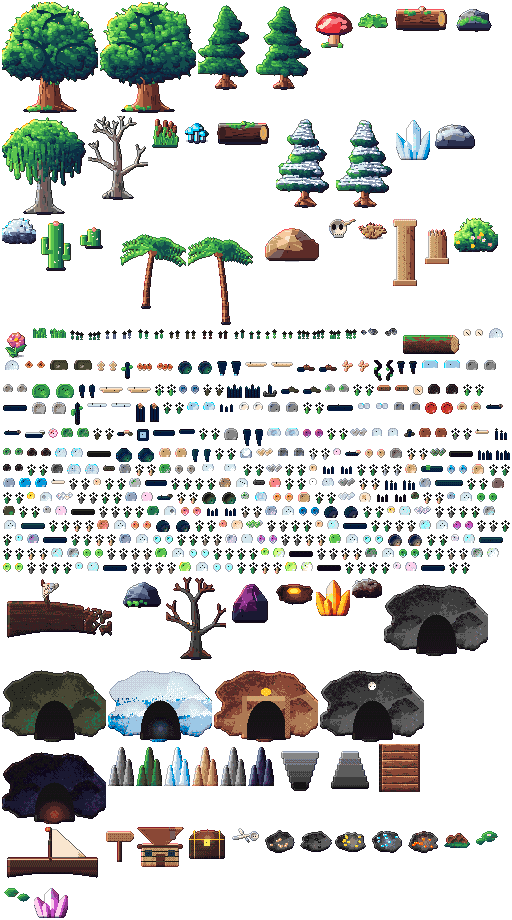
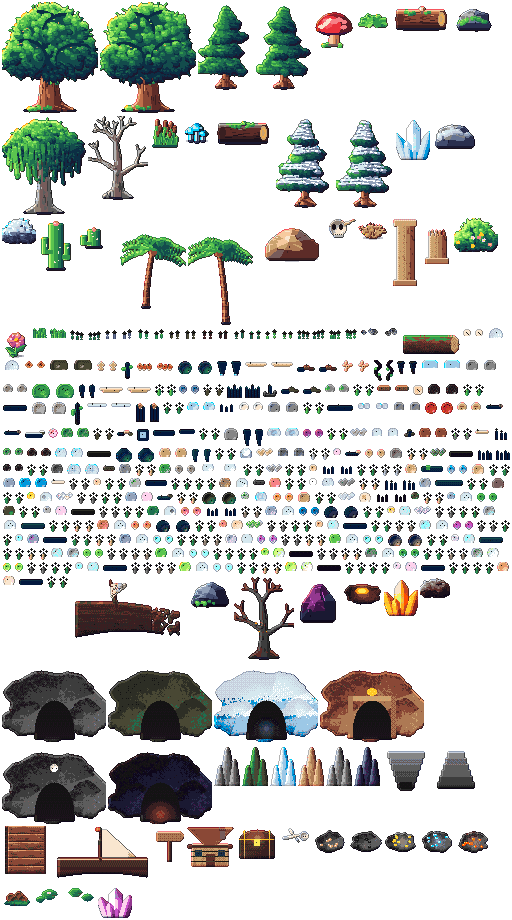
Ciclos 611-620/1000: 5 props (atlas 528) + testes mercado/spawning + evento concha cintilante + dica

Changed region(s): [[0.0, 0.6087, 0.9688, 1.0], [0.9375, 0.6087, 1.0, 0.6391]]

diff --git a/src/game/RegionWorld.js b/src/game/RegionWorld.js
@@ -33,12 +33,12 @@ const INTERACT_RANGE = 70;
 
 // Objetos por terreno: [frame, peso, sólido?]. Sólido = base que bloqueia (largura, altura).
 const PROPS = {
-  [T.FOREST]: { density: 0.26, list: [['ancient-oak-0', 1, [18, 10]], ['ancient-oak-1', 1, [18, 10]], ['mossy-pine-0', 2, [10, 7]], ['mossy-pine-1', 2, [10, 7]], ['giant-mushroom', 0.6, [10, 6]], ['fern', 3], ['fallen-log', 0.6, [40, 10]], ['mossy-rock', 1, [24, 10]], ['grass-tuft-0', 4], ['grass-tuft-1', 4], ['flower-tuft-0', 1.2], ['flower-tuft-1', 1.2], ['forest-flower-0', 0.8], ['forest-flower-1', 0.8], ['pebbles-0', 0.7], ['pebbles-1', 0.7], ['mushroom-cluster-0', 0.5], ['mushroom-cluster-1', 0.5], ['berry-bush-0', 0.6], ['berry-bush-1', 0.6], ['yellow-flower-0', 0.7], ['yellow-flower-1', 0.7], ['bark-scrap-0', 0.5], ['bark-scrap-1', 0.5], ['pink-flower-0', 0.6], ['pink-flower-1', 0.6], ['rotten-log', 0.4, [30, 9]], ['red-cap-0', 0.4], ['red-cap-1', 0.4], ['tan-shroom-0', 0.4], ['tan-shroom-1', 0.4], ['orange-shroom-0', 0.4], ['orange-shroom-1', 0.4], ['pink-shroom-0', 0.4], ['pink-shroom-1', 0.4], ['coral-shroom-0', 0.4], ['coral-shroom-1', 0.4], ['violet-shroom-0', 0.4], ['violet-shroom-1', 0.4], ['lilac-shroom-0', 0.4], ['lilac-shroom-1', 0.4], ['light-green-shroom-0', 0.4], ['light-green-shroom-1', 0.4], ['mossy-log', 0.35, [28, 8]], ['light-purple-flower-0', 0.5], ['light-purple-flower-1', 0.5], ['peach-forest-flower-0', 0.5], ['peach-forest-flower-1', 0.5], ['blue-forest-flower-0', 0.5], ['blue-forest-flower-1', 0.5], ['teal-forest-flower-0', 0.5], ['teal-forest-flower-1', 0.5], ['hot-pink-flower-0', 0.5], ['hot-pink-flower-1', 0.5], ['turquoise-forest-flower-0', 0.5], ['turquoise-forest-flower-1', 0.5], ['lilac-forest-flower-0', 0.5], ['lilac-forest-flower-1', 0.5], ['light-green-forest-flower-0', 0.5], ['light-green-forest-flower-1', 0.5], ['pale-green-forest-flower-0', 0.5], ['pale-green-forest-flower-1', 0.5], ['pale-lilac-forest-flower-0', 0.5], ['pale-lilac-forest-flower-1', 0.5], ['dark-bark', 0.5], ['blush-forest-flower-0', 0.5], ['blush-forest-flower-1', 0.5], ['forest-gravel', 0.6], ['forest-branch', 0.5], ['yellow-forest-bush-0', 0.5], ['yellow-forest-bush-1', 0.5], ['rotten-forest-log', 0.3, [30, 9]], ['forest-boulder', 0.3, [14, 8]]] },
-  [T.SWAMP]: { density: 0.17, list: [['willow', 1.4, [14, 9]], ['dead-tree', 1.4, [10, 7]], ['reeds', 3], ['swamp-shroom', 1.2], ['bog-log', 0.5, [40, 10]], ['mossy-rock', 0.5, [24, 10]], ['grass-tuft-0', 3], ['flower-tuft-1', 0.6], ['swamp-flower-0', 0.6], ['swamp-flower-1', 0.6], ['mud-puddle-0', 0.5], ['mud-puddle-1', 0.5], ['twisted-root-0', 0.5], ['twisted-root-1', 0.5], ['river-stone-0', 0.5, [10, 6]], ['river-stone-1', 0.5, [10, 6]], ['blue-mushroom-0', 0.5], ['blue-mushroom-1', 0.5], ['moss-pebble-0', 0.6], ['moss-pebble-1', 0.6], ['reed-0', 0.7], ['reed-1', 0.7], ['green-stone-0', 0.5, [10, 6]], ['green-stone-1', 0.5, [10, 6]], ['lilac-flower-0', 0.5], ['lilac-flower-1', 0.5], ['swamp-root', 0.5], ['swamp-pebble-0', 0.5], ['swamp-pebble-1', 0.5], ['yellow-swamp-flower-0', 0.5], ['yellow-swamp-flower-1', 0.5], ['swamp-gravel', 0.6], ['pink-swamp-flower-0', 0.5], ['pink-swamp-flower-1', 0.5], ['dark-river-stone', 0.5, [10, 6]], ['gray-shroom-0', 0.4], ['gray-shroom-1', 0.4], ['green-shroom-0', 0.4], ['green-shroom-1', 0.4], ['navy-shroom-0', 0.4], ['navy-shroom-1', 0.4], ['turquoise-shroom-0', 0.4], ['turquoise-shroom-1', 0.4], ['teal-swamp-shroom-0', 0.4], ['teal-swamp-shroom-1', 0.4], ['sea-green-swamp-shroom-0', 0.4], ['sea-green-swamp-shroom-1', 0.4], ['dark-sea-green-swamp-shroom-0', 0.4], ['dark-sea-green-swamp-shroom-1', 0.4], ['light-green-swamp-shroom-0', 0.4], ['light-green-swamp-shroom-1', 0.4], ['light-sea-green-swamp-shroom-0', 0.4], ['light-sea-green-swamp-shroom-1', 0.4], ['white-swamp-flower-0', 0.5], ['white-swamp-flower-1', 0.5], ['light-blue-shroom-0', 0.4], ['light-blue-shroom-1', 0.4], ['light-river-stone', 0.5, [10, 6]], ['blue-swamp-flower-0', 0.5], ['blue-swamp-flower-1', 0.5], ['orange-swamp-flower-0', 0.5], ['orange-swamp-flower-1', 0.5], ['teal-swamp-flower-0', 0.5], ['teal-swamp-flower-1', 0.5], ['gold-swamp-flower-0', 0.5], ['gold-swamp-flower-1', 0.5], ['dark-purple-swamp-flower-0', 0.5], ['dark-purple-swamp-flower-1', 0.5], ['coral-swamp-flower-0', 0.5], ['coral-swamp-flower-1', 0.5], ['turquoise-swamp-flower-0', 0.5], ['turquoise-swamp-flower-1', 0.5], ['lilac-swamp-flower-0', 0.5], ['lilac-swamp-flower-1', 0.5], ['green-swamp-flower-0', 0.5], ['green-swamp-flower-1', 0.5], ['sea-green-swamp-flower-0', 0.5], ['sea-green-swamp-flower-1', 0.5], ['light-green-swamp-flower-0', 0.5], ['light-green-swamp-flower-1', 0.5], ['pale-lilac-swamp-flower-0', 0.5], ['pale-lilac-swamp-flower-1', 0.5], ['muddy-swamp-log', 0.3, [30, 9]], ['pale-swamp-log', 0.3, [30, 9]], ['white-flowered-swamp-bush-0', 0.4], ['white-flowered-swamp-bush-1', 0.4]] },
-  [T.SNOW]: { density: 0.15, list: [['snow-pine-0', 2, [10, 7]], ['snow-pine-1', 2, [10, 7]], ['ice-crystal', 1, [16, 8]], ['snow-rock', 1.4, [28, 10]], ['frozen-bush', 1.4], ['grass-tuft-1', 1.5], ['snow-flower-0', 0.8], ['snow-flower-1', 0.8], ['pebbles-0', 0.5], ['pebbles-1', 0.5], ['frozen-log', 0.5, [40, 10]], ['snow-mound-0', 0.6], ['snow-mound-1', 0.6], ['ice-shard-0', 0.6, [6, 10]], ['ice-shard-1', 0.6, [6, 10]], ['ice-spike-0', 0.6, [4, 8]], ['ice-spike-1', 0.6, [4, 8]], ['white-flower-0', 0.6], ['white-flower-1', 0.6], ['blue-ice-0', 0.5], ['blue-ice-1', 0.5], ['snow-track-0', 0.6], ['snow-track-1', 0.6], ['snow-branch', 0.4, [24, 10]], ['carved-ice', 0.4, [10, 10]], ['snow-hollow-0', 0.5], ['snow-hollow-1', 0.5], ['snow-pile-0', 0.5], ['snow-pile-1', 0.5], ['blue-snow-flower-0', 0.5], ['blue-snow-flower-1', 0.5], ['clear-ice-rock-0', 0.5, [10, 6]], ['clear-ice-rock-1', 0.5, [10, 6]], ['snow-covered-rock', 0.4, [12, 7]], ['lilac-ice-flower-0', 0.5], ['lilac-ice-flower-1', 0.5], ['ice-log', 0.35, [30, 9]], ['cracked-ice-0', 0.5], ['cracked-ice-1', 0.5], ['wind-snow-0', 0.5], ['wind-snow-1', 0.5], ['mint-ice-flower-0', 0.5], ['mint-ice-flower-1', 0.5], ['deep-blue-ice-0', 0.5], ['deep-blue-ice-1', 0.5], ['flowered-snow', 0.5], ['pale-blue-ice', 0.5], ['gray-snow-rock', 0.5, [10, 6]], ['pebbled-snow', 0.5], ['pink-ice', 0.4, [10, 6]], ['shattered-ice', 0.5], ['snow-gravel', 0.6], ['blue-flowered-snow', 0.5], ['lilac-ice', 0.4, [10, 6]], ['dark-pebbled-snow', 0.5], ['pink-flowered-snow', 0.5], ['teal-ice', 0.4, [10, 6]], ['yellow-flowered-snow', 0.5], ['green-flowered-snow', 0.5], ['coral-ice', 0.4, [10, 6]], ['turquoise-ice', 0.4, [10, 6]], ['turquoise-flowered-snow', 0.5], ['dark-lilac-ice', 0.4, [10, 6]], ['lilac-flowered-snow', 0.5], ['pale-teal-ice', 0.4, [10, 6]], ['coral-flowered-snow', 0.5], ['green-ice', 0.4, [10, 6]], ['dark-teal-ice', 0.4, [10, 6]], ['sea-green-flowered-snow', 0.5], ['light-green-ice', 0.4, [10, 6]], ['light-green-flowered-snow', 0.5], ['pale-green-ice', 0.4, [10, 6]], ['light-sea-green-ice', 0.4, [10, 6]], ['pale-green-flowered-snow', 0.5], ['pale-green-ice-2', 0.4, [10, 6]], ['pale-lilac-ice', 0.4, [10, 6]]] },
+  [T.FOREST]: { density: 0.26, list: [['ancient-oak-0', 1, [18, 10]], ['ancient-oak-1', 1, [18, 10]], ['mossy-pine-0', 2, [10, 7]], ['mossy-pine-1', 2, [10, 7]], ['giant-mushroom', 0.6, [10, 6]], ['fern', 3], ['fallen-log', 0.6, [40, 10]], ['mossy-rock', 1, [24, 10]], ['grass-tuft-0', 4], ['grass-tuft-1', 4], ['flower-tuft-0', 1.2], ['flower-tuft-1', 1.2], ['forest-flower-0', 0.8], ['forest-flower-1', 0.8], ['pebbles-0', 0.7], ['pebbles-1', 0.7], ['mushroom-cluster-0', 0.5], ['mushroom-cluster-1', 0.5], ['berry-bush-0', 0.6], ['berry-bush-1', 0.6], ['yellow-flower-0', 0.7], ['yellow-flower-1', 0.7], ['bark-scrap-0', 0.5], ['bark-scrap-1', 0.5], ['pink-flower-0', 0.6], ['pink-flower-1', 0.6], ['rotten-log', 0.4, [30, 9]], ['red-cap-0', 0.4], ['red-cap-1', 0.4], ['tan-shroom-0', 0.4], ['tan-shroom-1', 0.4], ['orange-shroom-0', 0.4], ['orange-shroom-1', 0.4], ['pink-shroom-0', 0.4], ['pink-shroom-1', 0.4], ['coral-shroom-0', 0.4], ['coral-shroom-1', 0.4], ['violet-shroom-0', 0.4], ['violet-shroom-1', 0.4], ['lilac-shroom-0', 0.4], ['lilac-shroom-1', 0.4], ['light-green-shroom-0', 0.4], ['light-green-shroom-1', 0.4], ['mossy-log', 0.35, [28, 8]], ['light-purple-flower-0', 0.5], ['light-purple-flower-1', 0.5], ['peach-forest-flower-0', 0.5], ['peach-forest-flower-1', 0.5], ['blue-forest-flower-0', 0.5], ['blue-forest-flower-1', 0.5], ['teal-forest-flower-0', 0.5], ['teal-forest-flower-1', 0.5], ['hot-pink-flower-0', 0.5], ['hot-pink-flower-1', 0.5], ['turquoise-forest-flower-0', 0.5], ['turquoise-forest-flower-1', 0.5], ['lilac-forest-flower-0', 0.5], ['lilac-forest-flower-1', 0.5], ['light-green-forest-flower-0', 0.5], ['light-green-forest-flower-1', 0.5], ['pale-green-forest-flower-0', 0.5], ['pale-green-forest-flower-1', 0.5], ['pale-lilac-forest-flower-0', 0.5], ['pale-lilac-forest-flower-1', 0.5], ['pale-coral-forest-flower-0', 0.5], ['pale-coral-forest-flower-1', 0.5], ['dark-bark', 0.5], ['blush-forest-flower-0', 0.5], ['blush-forest-flower-1', 0.5], ['forest-gravel', 0.6], ['forest-branch', 0.5], ['yellow-forest-bush-0', 0.5], ['yellow-forest-bush-1', 0.5], ['rotten-forest-log', 0.3, [30, 9]], ['forest-boulder', 0.3, [14, 8]]] },
+  [T.SWAMP]: { density: 0.17, list: [['willow', 1.4, [14, 9]], ['dead-tree', 1.4, [10, 7]], ['reeds', 3], ['swamp-shroom', 1.2], ['bog-log', 0.5, [40, 10]], ['mossy-rock', 0.5, [24, 10]], ['grass-tuft-0', 3], ['flower-tuft-1', 0.6], ['swamp-flower-0', 0.6], ['swamp-flower-1', 0.6], ['mud-puddle-0', 0.5], ['mud-puddle-1', 0.5], ['twisted-root-0', 0.5], ['twisted-root-1', 0.5], ['river-stone-0', 0.5, [10, 6]], ['river-stone-1', 0.5, [10, 6]], ['blue-mushroom-0', 0.5], ['blue-mushroom-1', 0.5], ['moss-pebble-0', 0.6], ['moss-pebble-1', 0.6], ['reed-0', 0.7], ['reed-1', 0.7], ['green-stone-0', 0.5, [10, 6]], ['green-stone-1', 0.5, [10, 6]], ['lilac-flower-0', 0.5], ['lilac-flower-1', 0.5], ['swamp-root', 0.5], ['swamp-pebble-0', 0.5], ['swamp-pebble-1', 0.5], ['yellow-swamp-flower-0', 0.5], ['yellow-swamp-flower-1', 0.5], ['swamp-gravel', 0.6], ['pink-swamp-flower-0', 0.5], ['pink-swamp-flower-1', 0.5], ['dark-river-stone', 0.5, [10, 6]], ['gray-shroom-0', 0.4], ['gray-shroom-1', 0.4], ['green-shroom-0', 0.4], ['green-shroom-1', 0.4], ['navy-shroom-0', 0.4], ['navy-shroom-1', 0.4], ['turquoise-shroom-0', 0.4], ['turquoise-shroom-1', 0.4], ['teal-swamp-shroom-0', 0.4], ['teal-swamp-shroom-1', 0.4], ['sea-green-swamp-shroom-0', 0.4], ['sea-green-swamp-shroom-1', 0.4], ['dark-sea-green-swamp-shroom-0', 0.4], ['dark-sea-green-swamp-shroom-1', 0.4], ['light-green-swamp-shroom-0', 0.4], ['light-green-swamp-shroom-1', 0.4], ['light-sea-green-swamp-shroom-0', 0.4], ['light-sea-green-swamp-shroom-1', 0.4], ['white-swamp-flower-0', 0.5], ['white-swamp-flower-1', 0.5], ['light-blue-shroom-0', 0.4], ['light-blue-shroom-1', 0.4], ['light-river-stone', 0.5, [10, 6]], ['blue-swamp-flower-0', 0.5], ['blue-swamp-flower-1', 0.5], ['orange-swamp-flower-0', 0.5], ['orange-swamp-flower-1', 0.5], ['teal-swamp-flower-0', 0.5], ['teal-swamp-flower-1', 0.5], ['gold-swamp-flower-0', 0.5], ['gold-swamp-flower-1', 0.5], ['dark-purple-swamp-flower-0', 0.5], ['dark-purple-swamp-flower-1', 0.5], ['coral-swamp-flower-0', 0.5], ['coral-swamp-flower-1', 0.5], ['turquoise-swamp-flower-0', 0.5], ['turquoise-swamp-flower-1', 0.5], ['lilac-swamp-flower-0', 0.5], ['lilac-swamp-flower-1', 0.5], ['green-swamp-flower-0', 0.5], ['green-swamp-flower-1', 0.5], ['sea-green-swamp-flower-0', 0.5], ['sea-green-swamp-flower-1', 0.5], ['light-green-swamp-flower-0', 0.5], ['light-green-swamp-flower-1', 0.5], ['pale-lilac-swamp-flower-0', 0.5], ['pale-lilac-swamp-flower-1', 0.5], ['pale-coral-swamp-flower-0', 0.5], ['pale-coral-swamp-flower-1', 0.5], ['muddy-swamp-log', 0.3, [30, 9]], ['pale-swamp-log', 0.3, [30, 9]], ['white-flowered-swamp-bush-0', 0.4], ['white-flowered-swamp-bush-1', 0.4]] },
+  [T.SNOW]: { density: 0.15, list: [['snow-pine-0', 2, [10, 7]], ['snow-pine-1', 2, [10, 7]], ['ice-crystal', 1, [16, 8]], ['snow-rock', 1.4, [28, 10]], ['frozen-bush', 1.4], ['grass-tuft-1', 1.5], ['snow-flower-0', 0.8], ['snow-flower-1', 0.8], ['pebbles-0', 0.5], ['pebbles-1', 0.5], ['frozen-log', 0.5, [40, 10]], ['snow-mound-0', 0.6], ['snow-mound-1', 0.6], ['ice-shard-0', 0.6, [6, 10]], ['ice-shard-1', 0.6, [6, 10]], ['ice-spike-0', 0.6, [4, 8]], ['ice-spike-1', 0.6, [4, 8]], ['white-flower-0', 0.6], ['white-flower-1', 0.6], ['blue-ice-0', 0.5], ['blue-ice-1', 0.5], ['snow-track-0', 0.6], ['snow-track-1', 0.6], ['snow-branch', 0.4, [24, 10]], ['carved-ice', 0.4, [10, 10]], ['snow-hollow-0', 0.5], ['snow-hollow-1', 0.5], ['snow-pile-0', 0.5], ['snow-pile-1', 0.5], ['blue-snow-flower-0', 0.5], ['blue-snow-flower-1', 0.5], ['clear-ice-rock-0', 0.5, [10, 6]], ['clear-ice-rock-1', 0.5, [10, 6]], ['snow-covered-rock', 0.4, [12, 7]], ['lilac-ice-flower-0', 0.5], ['lilac-ice-flower-1', 0.5], ['ice-log', 0.35, [30, 9]], ['cracked-ice-0', 0.5], ['cracked-ice-1', 0.5], ['wind-snow-0', 0.5], ['wind-snow-1', 0.5], ['mint-ice-flower-0', 0.5], ['mint-ice-flower-1', 0.5], ['deep-blue-ice-0', 0.5], ['deep-blue-ice-1', 0.5], ['flowered-snow', 0.5], ['pale-blue-ice', 0.5], ['gray-snow-rock', 0.5, [10, 6]], ['pebbled-snow', 0.5], ['pink-ice', 0.4, [10, 6]], ['shattered-ice', 0.5], ['snow-gravel', 0.6], ['blue-flowered-snow', 0.5], ['lilac-ice', 0.4, [10, 6]], ['dark-pebbled-snow', 0.5], ['pink-flowered-snow', 0.5], ['teal-ice', 0.4, [10, 6]], ['yellow-flowered-snow', 0.5], ['green-flowered-snow', 0.5], ['coral-ice', 0.4, [10, 6]], ['turquoise-ice', 0.4, [10, 6]], ['turquoise-flowered-snow', 0.5], ['dark-lilac-ice', 0.4, [10, 6]], ['lilac-flowered-snow', 0.5], ['pale-teal-ice', 0.4, [10, 6]], ['coral-flowered-snow', 0.5], ['green-ice', 0.4, [10, 6]], ['dark-teal-ice', 0.4, [10, 6]], ['sea-green-flowered-snow', 0.5], ['light-green-ice', 0.4, [10, 6]], ['light-green-flowered-snow', 0.5], ['pale-green-ice', 0.4, [10, 6]], ['light-sea-green-ice', 0.4, [10, 6]], ['pale-green-flowered-snow', 0.5], ['pale-green-ice-2', 0.4, [10, 6]], ['pale-lilac-ice', 0.4, [10, 6]], ['pale-coral-ice', 0.4, [10, 6]]] },
   [T.SAND]: { density: 0.07, list: [['cactus', 2, [12, 7]], ['cactus-small', 2, [10, 6]], ['desert-rock', 1, [40, 12]], ['skull', 0.7], ['dry-bush', 2], ['ruin-pillar', 0.3, [18, 8]], ['ruin-pillar-broken', 0.4, [18, 8]], ['grass-tuft-0', 1.5], ['dune-flower-0', 0.7], ['dune-flower-1', 0.7], ['pebbles-0', 0.6], ['pebbles-1', 0.6], ['blooming-cactus', 0.4, [12, 7]], ['tall-cactus', 0.35, [10, 12]], ['footprint-0', 0.4], ['footprint-1', 0.4], ['desert-bloom-0', 0.5], ['desert-bloom-1', 0.5], ['carved-pebble-0', 0.5], ['carved-pebble-1', 0.5], ['dry-log', 0.4, [28, 8]], ['white-desert-flower-0', 0.5], ['white-desert-flower-1', 0.5], ['desert-stone-0', 0.5, [10, 6]], ['desert-stone-1', 0.5, [10, 6]], ['pink-dune-flower-0', 0.5], ['pink-dune-flower-1', 0.5], ['lilac-dune-flower-0', 0.5], ['lilac-dune-flower-1', 0.5], ['red-dune-flower-0', 0.5], ['red-dune-flower-1', 0.5], ['white-dune-flower-0', 0.5], ['white-dune-flower-1', 0.5], ['magenta-dune-flower-0', 0.5], ['magenta-dune-flower-1', 0.5], ['coral-dune-flower-0', 0.5], ['coral-dune-flower-1', 0.5], ['turquoise-dune-flower-0', 0.5], ['turquoise-dune-flower-1', 0.5], ['light-coral-dune-flower-0', 0.5], ['light-coral-dune-flower-1', 0.5], ['sea-green-dune-flower-0', 0.5], ['sea-green-dune-flower-1', 0.5], ['light-green-dune-flower-0', 0.5], ['light-green-dune-flower-1', 0.5], ['green-dune-stone', 0.5, [10, 6]], ['sea-green-dune-stone', 0.5, [10, 6]], ['light-green-dune-stone', 0.5, [10, 6]], ['pale-green-dune-flower-0', 0.5], ['pale-green-dune-flower-1', 0.5], ['lilac-dune-stone', 0.5, [10, 6]], ['flowered-dune-bush-0', 0.4], ['flowered-dune-bush-1', 0.4]] },
-  [T.DUNE]: { density: 0.03, list: [['dry-bush', 1], ['skull', 0.4], ['cactus-small', 0.5, [10, 6]], ['grass-tuft-1', 1], ['dune-flower-0', 0.5], ['dune-flower-1', 0.5], ['footprint-0', 0.5], ['footprint-1', 0.5], ['small-rock-0', 0.5], ['small-rock-1', 0.5], ['dune-wave-0', 0.6], ['dune-wave-1', 0.6], ['tall-grass-0', 0.6], ['tall-grass-1', 0.6], ['dry-bush-2', 0.7], ['dune-root', 0.5], ['dune-bloom', 0.5], ['dune-gravel', 0.6], ['dry-branch', 0.5], ['light-dune-pebble', 0.6], ['round-dune-rock', 0.4, [12, 7]], ['pink-dune-pebble', 0.6], ['dark-dune-stone', 0.5, [10, 6]], ['gold-dune-pebble', 0.6], ['dark-round-dune-rock', 0.4, [12, 7]], ['gray-dune-pebble', 0.6], ['dry-dune-bush-0', 0.5], ['dry-dune-bush-1', 0.5], ['lavender-dune-stone', 0.5, [10, 6]], ['lilac-dune-gravel', 0.6], ['coral-dune-pebble', 0.6], ['turquoise-dune-stone', 0.5, [10, 6]], ['lilac-dune-log', 0.3, [30, 9]], ['pale-dune-log', 0.3, [30, 9]]] },
-  [T.BEACH]: { density: 0.06, list: [['palm-0', 1.5, [8, 6]], ['palm-1', 1.5, [8, 6]], ['sea-rock', 1, [28, 10]], ['big-flower', 0.3], ['flower-tuft-0', 1.5], ['grass-tuft-0', 2], ['beach-flower-0', 0.7], ['beach-flower-1', 0.7], ['shell-0', 0.6], ['shell-1', 0.6], ['sand-ripple-0', 0.8], ['sand-ripple-1', 0.8], ['starfish-0', 0.4], ['starfish-1', 0.4], ['tide-puddle-0', 0.4], ['tide-puddle-1', 0.4], ['broken-anchor', 0.25, [12, 10]], ['spiral-shell', 0.4], ['beach-boulder-0', 0.3, [14, 8]], ['beach-boulder-1', 0.3, [14, 8]], ['sea-foam-0', 0.5], ['sea-foam-1', 0.5], ['pale-stone-0', 0.5], ['pale-stone-1', 0.5], ['tide-rock-0', 0.5, [10, 6]], ['tide-rock-1', 0.5, [10, 6]], ['pink-shell', 0.4], ['driftwood', 0.4], ['beach-gravel', 0.6], ['pale-bark', 0.4], ['wreck-log', 0.3, [30, 9]], ['wet-stone-0', 0.5, [10, 6]], ['wet-stone-1', 0.5, [10, 6]], ['pink-pebble', 0.5], ['sea-grass-0', 0.6], ['sea-grass-1', 0.6], ['shipwreck', 0.2, [30, 12]], ['blue-gray-stone', 0.5, [10, 6]], ['green-beach-stone', 0.5, [10, 6]], ['dry-sea-bush-0', 0.5], ['dry-sea-bush-1', 0.5], ['yellow-beach-stone', 0.5, [10, 6]], ['light-beach-bark', 0.4], ['pale-green-stone', 0.5, [10, 6]], ['rose-beach-stone', 0.5, [10, 6]], ['white-beach-pebble', 0.6], ['pink-sea-bush-0', 0.5], ['pink-sea-bush-1', 0.5], ['long-beach-log', 0.25, [34, 8]], ['colorful-beach-gravel', 0.6], ['lilac-beach-stone', 0.5, [10, 6]], ['green-beach-pebble', 0.6], ['big-shell', 0.35, [10, 8]], ['blue-beach-pebble', 0.6], ['dark-beach-log', 0.25, [30, 9]], ['dark-green-beach-stone', 0.5, [10, 6]], ['coral-beach-flower-0', 0.5], ['coral-beach-flower-1', 0.5], ['gold-beach-pebble', 0.6], ['teal-beach-stone', 0.5, [10, 6]], ['coral-beach-stone', 0.5, [10, 6]], ['coral-beach-pebble', 0.6], ['green-beach-gravel', 0.6], ['turquoise-beach-pebble', 0.6], ['dark-lilac-beach-stone', 0.5, [10, 6]], ['light-lilac-beach-pebble', 0.6], ['light-green-beach-pebble', 0.6], ['muddy-beach-log', 0.25, [30, 9]], ['lilac-beach-flower-0', 0.5], ['lilac-beach-flower-1', 0.5], ['green-beach-flower-0', 0.5], ['green-beach-flower-1', 0.5], ['light-green-beach-stone', 0.5, [10, 6]], ['sea-green-beach-stone', 0.5, [10, 6]], ['sea-green-beach-flower-0', 0.5], ['sea-green-beach-flower-1', 0.5], ['dark-sea-green-beach-stone', 0.5, [10, 6]], ['light-green-beach-flower-0', 0.5], ['light-green-beach-flower-1', 0.5], ['pale-green-beach-flower-0', 0.5], ['pale-green-beach-flower-1', 0.5], ['pale-green-beach-stone', 0.5, [10, 6]], ['pale-lilac-beach-pebble', 0.6], ['light-sea-green-beach-pebble', 0.6]] },
+  [T.DUNE]: { density: 0.03, list: [['dry-bush', 1], ['skull', 0.4], ['cactus-small', 0.5, [10, 6]], ['grass-tuft-1', 1], ['dune-flower-0', 0.5], ['dune-flower-1', 0.5], ['footprint-0', 0.5], ['footprint-1', 0.5], ['small-rock-0', 0.5], ['small-rock-1', 0.5], ['dune-wave-0', 0.6], ['dune-wave-1', 0.6], ['tall-grass-0', 0.6], ['tall-grass-1', 0.6], ['dry-bush-2', 0.7], ['dune-root', 0.5], ['dune-bloom', 0.5], ['dune-gravel', 0.6], ['dry-branch', 0.5], ['light-dune-pebble', 0.6], ['round-dune-rock', 0.4, [12, 7]], ['pink-dune-pebble', 0.6], ['dark-dune-stone', 0.5, [10, 6]], ['gold-dune-pebble', 0.6], ['dark-round-dune-rock', 0.4, [12, 7]], ['gray-dune-pebble', 0.6], ['dry-dune-bush-0', 0.5], ['dry-dune-bush-1', 0.5], ['lavender-dune-stone', 0.5, [10, 6]], ['lilac-dune-gravel', 0.6], ['coral-dune-pebble', 0.6], ['turquoise-dune-stone', 0.5, [10, 6]], ['lilac-dune-log', 0.3, [30, 9]], ['coral-dune-log', 0.3, [30, 9]], ['pale-dune-log', 0.3, [30, 9]]] },
+  [T.BEACH]: { density: 0.06, list: [['palm-0', 1.5, [8, 6]], ['palm-1', 1.5, [8, 6]], ['sea-rock', 1, [28, 10]], ['big-flower', 0.3], ['flower-tuft-0', 1.5], ['grass-tuft-0', 2], ['beach-flower-0', 0.7], ['beach-flower-1', 0.7], ['shell-0', 0.6], ['shell-1', 0.6], ['sand-ripple-0', 0.8], ['sand-ripple-1', 0.8], ['starfish-0', 0.4], ['starfish-1', 0.4], ['tide-puddle-0', 0.4], ['tide-puddle-1', 0.4], ['broken-anchor', 0.25, [12, 10]], ['spiral-shell', 0.4], ['beach-boulder-0', 0.3, [14, 8]], ['beach-boulder-1', 0.3, [14, 8]], ['sea-foam-0', 0.5], ['sea-foam-1', 0.5], ['pale-stone-0', 0.5], ['pale-stone-1', 0.5], ['tide-rock-0', 0.5, [10, 6]], ['tide-rock-1', 0.5, [10, 6]], ['pink-shell', 0.4], ['driftwood', 0.4], ['beach-gravel', 0.6], ['pale-bark', 0.4], ['wreck-log', 0.3, [30, 9]], ['wet-stone-0', 0.5, [10, 6]], ['wet-stone-1', 0.5, [10, 6]], ['pink-pebble', 0.5], ['sea-grass-0', 0.6], ['sea-grass-1', 0.6], ['shipwreck', 0.2, [30, 12]], ['blue-gray-stone', 0.5, [10, 6]], ['green-beach-stone', 0.5, [10, 6]], ['dry-sea-bush-0', 0.5], ['dry-sea-bush-1', 0.5], ['yellow-beach-stone', 0.5, [10, 6]], ['light-beach-bark', 0.4], ['pale-green-stone', 0.5, [10, 6]], ['rose-beach-stone', 0.5, [10, 6]], ['white-beach-pebble', 0.6], ['pink-sea-bush-0', 0.5], ['pink-sea-bush-1', 0.5], ['long-beach-log', 0.25, [34, 8]], ['colorful-beach-gravel', 0.6], ['lilac-beach-stone', 0.5, [10, 6]], ['green-beach-pebble', 0.6], ['big-shell', 0.35, [10, 8]], ['blue-beach-pebble', 0.6], ['dark-beach-log', 0.25, [30, 9]], ['dark-green-beach-stone', 0.5, [10, 6]], ['coral-beach-flower-0', 0.5], ['coral-beach-flower-1', 0.5], ['gold-beach-pebble', 0.6], ['teal-beach-stone', 0.5, [10, 6]], ['coral-beach-stone', 0.5, [10, 6]], ['coral-beach-pebble', 0.6], ['green-beach-gravel', 0.6], ['turquoise-beach-pebble', 0.6], ['dark-lilac-beach-stone', 0.5, [10, 6]], ['light-lilac-beach-pebble', 0.6], ['light-green-beach-pebble', 0.6], ['muddy-beach-log', 0.25, [30, 9]], ['lilac-beach-flower-0', 0.5], ['lilac-beach-flower-1', 0.5], ['green-beach-flower-0', 0.5], ['green-beach-flower-1', 0.5], ['light-green-beach-stone', 0.5, [10, 6]], ['sea-green-beach-stone', 0.5, [10, 6]], ['sea-green-beach-flower-0', 0.5], ['sea-green-beach-flower-1', 0.5], ['dark-sea-green-beach-stone', 0.5, [10, 6]], ['light-green-beach-flower-0', 0.5], ['light-green-beach-flower-1', 0.5], ['pale-green-beach-flower-0', 0.5], ['pale-green-beach-flower-1', 0.5], ['pale-green-beach-stone', 0.5, [10, 6]], ['pale-lilac-beach-pebble', 0.6], ['pale-coral-beach-stone', 0.5, [10, 6]], ['light-sea-green-beach-pebble', 0.6]] },
   [T.JUNGLE]: { density: 0.17, list: [['palm-0', 1.5, [8, 6]], ['palm-1', 1.5, [8, 6]], ['tropical-bush', 3], ['big-flower', 2], ['sea-rock', 0.4, [28, 10]], ['grass-tuft-0', 3], ['grass-tuft-1', 3], ['flower-tuft-1', 2], ['jungle-flower-0', 0.8], ['jungle-flower-1', 0.8], ['vine-0', 0.7], ['vine-1', 0.7], ['jungle-root-0', 0.5], ['jungle-root-1', 0.5], ['purple-flower-0', 0.6], ['purple-flower-1', 0.6], ['jungle-log', 0.4, [32, 9]], ['purple-shroom-0', 0.4], ['purple-shroom-1', 0.4], ['jungle-bush-0', 0.6], ['jungle-bush-1', 0.6], ['orange-jungle-flower-0', 0.5], ['orange-jungle-flower-1', 0.5], ['yellow-jungle-flower-0', 0.5], ['yellow-jungle-flower-1', 0.5], ['pink-jungle-flower-0', 0.5], ['pink-jungle-flower-1', 0.5], ['coral-jungle-flower-0', 0.5], ['coral-jungle-flower-1', 0.5], ['gold-jungle-flower-0', 0.5], ['gold-jungle-flower-1', 0.5], ['turquoise-jungle-flower-0', 0.5], ['turquoise-jungle-flower-1', 0.5], ['mossy-jungle-log', 0.3, [30, 9]], ['sea-green-jungle-flower-0', 0.5], ['sea-green-jungle-flower-1', 0.5], ['light-green-jungle-flower-0', 0.5], ['light-green-jungle-flower-1', 0.5], ['pale-green-jungle-flower-0', 0.5], ['pale-green-jungle-flower-1', 0.5], ['dark-jungle-pebble', 0.6], ['mossy-jungle-stone', 0.5, [10, 6]]] },
   [T.ASH]: { density: 0.11, list: [['charred-tree', 2, [10, 7]], ['obsidian', 2, [28, 12]], ['lava-vent', 1], ['fire-crystal', 0.8, [14, 8]], ['ash-bush', 2], ['grass-tuft-1', 0.8], ['ash-flower-0', 0.5], ['ash-flower-1', 0.5], ['pebbles-0', 0.5], ['pebbles-1', 0.5], ['ember-0', 0.8], ['ember-1', 0.8], ['obsidian-shard-0', 0.5, [5, 8]], ['obsidian-shard-1', 0.5, [5, 8]], ['ember-flower-0', 0.5], ['ember-flower-1', 0.5], ['lava-rock-0', 0.5, [12, 6]], ['lava-rock-1', 0.5, [12, 6]], ['granite-0', 0.5, [12, 6]], ['granite-1', 0.5, [12, 6]], ['orange-flower-0', 0.5], ['orange-flower-1', 0.5], ['ash-spike-0', 0.5, [5, 10]], ['ash-spike-1', 0.5, [5, 10]], ['red-stone-0', 0.5, [10, 6]], ['red-stone-1', 0.5, [10, 6]], ['hot-ash-0', 0.6], ['hot-ash-1', 0.6], ['ash-crystal-0', 0.4, [5, 8]], ['ash-crystal-1', 0.4, [5, 8]], ['pale-ash-rock', 0.4, [12, 7]], ['small-lava-rock-0', 0.5], ['small-lava-rock-1', 0.5], ['light-ash-gravel', 0.6], ['white-ash-flower-0', 0.5], ['white-ash-flower-1', 0.5], ['ash-log', 0.35, [28, 8]], ['ash-bark', 0.5], ['red-ash-rock', 0.4, [12, 7]], ['orange-ash-flower-0', 0.5], ['orange-ash-flower-1', 0.5], ['dry-ash-bush-0', 0.5], ['dry-ash-bush-1', 0.5], ['pink-ash-flower-0', 0.5], ['pink-ash-flower-1', 0.5], ['flowered-ash-bush-0', 0.4], ['flowered-ash-bush-1', 0.4], ['pale-ash-log', 0.3, [30, 9]], ['yellow-ash-flower-0', 0.5], ['yellow-ash-flower-1', 0.5], ['teal-ash-flower-0', 0.5], ['teal-ash-flower-1', 0.5], ['coral-ash-flower-0', 0.5], ['coral-ash-flower-1', 0.5], ['green-ash-flower-0', 0.5], ['green-ash-flower-1', 0.5], ['sea-green-ash-flower-0', 0.5], ['sea-green-ash-flower-1', 0.5], ['light-green-ash-flower-0', 0.5], ['light-green-ash-flower-1', 0.5], ['light-sea-green-ash-flower-0', 0.5], ['light-sea-green-ash-flower-1', 0.5], ['pale-green-ash-flower-0', 0.5], ['pale-green-ash-flower-1', 0.5]] },
 };

diff --git a/src/art/biomeProps.js b/src/art/biomeProps.js
@@ -1166,6 +1166,49 @@ function paleLilacForestFlower(seed = 2397) {
   return finish(p, { outline: 0.3 });
 }
 
+/** Flor coral clara do brejo. */
+function paleCoralSwampFlower(seed = 2407) {
+  const p = new Painter(10, 12, { transparent: true });
+  p.rect(4, 6, 2, 5, '#4a6a34');
+  for (const [dx, dy] of [[-3, -2], [3, -2], [-2, 2], [2, 2], [0, -4]]) p.set(5 + dx, 5 + dy, '#ffb8a8');
+  p.set(5, 5, '#fff4f0');
+  return finish(p, { outline: 0.3 });
+}
+
+/** Pedra coral clara de praia. */
+function paleCoralBeachStone(seed = 2411) {
+  const p = new Painter(14, 9, { transparent: true });
+  p.sphere(7, 5, 5, '#d89880', '#f0bcac');
+  p.set(5, 3, '#ffe4dc');
+  return finish(p, { outline: 0.35 });
+}
+
+/** Gelo coral claro (neve). */
+function paleCoralIce(seed = 2417) {
+  const p = new Painter(14, 9, { transparent: true });
+  p.sphere(7, 5, 5, '#f0ccc0', '#f8e6de');
+  p.set(5, 3, '#fff4ee');
+  return finish(p, { outline: 0.35 });
+}
+
+/** Tronco coral de duna. */
+function coralDuneLog(seed = 2421) {
+  const p = new Painter(26, 10, { transparent: true });
+  const wood = ['#c09878', '#d8b494'];
+  p.rect(2, 4, 22, 4, shade([wood[0], wood[1]], 0.5));
+  p.set(2, 4, '#a07858'); p.set(23, 7, '#a07858');
+  return finish(p, { outline: 0.35 });
+}
+
+/** Flor coral clara da floresta. */
+function paleCoralForestFlower(seed = 2427) {
+  const p = new Painter(10, 12, { transparent: true });
+  p.rect(4, 6, 2, 5, '#4a6a34');
+  for (const [dx, dy] of [[-3, -2], [3, -2], [-2, 2], [2, 2], [0, -4]]) p.set(5 + dx, 5 + dy, '#ffb8a8');
+  p.set(5, 5, '#fff4f0');
+  return finish(p, { outline: 0.3 });
+}
+
 function seaGreenSwampFlower(seed = 2197) {
   const p = new Painter(10, 12, { transparent: true });
   p.rect(4, 6, 2, 5, '#4a6a34');
@@ -3967,6 +4010,13 @@ const PAINTED_ENTRIES = [
   { name: 'lilac-dune-log', draw: () => lilacDuneLog(2391) },
   { name: 'pale-lilac-forest-flower-0', draw: () => paleLilacForestFlower(2397) },
   { name: 'pale-lilac-forest-flower-1', draw: () => paleLilacForestFlower(2399) },
+  { name: 'pale-coral-swamp-flower-0', draw: () => paleCoralSwampFlower(2407) },
+  { name: 'pale-coral-swamp-flower-1', draw: () => paleCoralSwampFlower(2409) },
+  { name: 'pale-coral-beach-stone', draw: () => paleCoralBeachStone(2411) },
+  { name: 'pale-coral-ice', draw: () => paleCoralIce(2417) },
+  { name: 'coral-dune-log', draw: () => coralDuneLog(2421) },
+  { name: 'pale-coral-forest-flower-0', draw: () => paleCoralForestFlower(2427) },
+  { name: 'pale-coral-forest-flower-1', draw: () => paleCoralForestFlower(2429) },
   { name: 'shipwreck', draw: shipwreck },
   { name: 'sea-rock', draw: seaRock },
   { name: 'charred-tree', draw: () => deadTree(['#0c0808', '#1a1010', '#2a1a16', '#3a2620', '#4a3228'], true) },

diff --git a/tests/simulacao.test.js b/tests/simulacao.test.js
@@ -28,6 +28,8 @@ import { MISSIONS } from '../src/data/campaign.js';
 import { CRAFT_RECIPES } from '../src/data/craftRecipes.js';
 import { RESOURCE_NODES } from '../src/data/resources.js';
 import { SPAWN_ZONES } from '../src/data/biomes.js';
+import { MARKET_CATALOG } from '../src/data/economy.js';
+import { SPAWNING_CONFIG } from '../src/data/spawning.js';
 // Validamos uso cruzado do atlas com regex em TODOS os fontes de src/ (RegionWorld importa Phaser).
 import { readFileSync, readdirSync, statSync } from 'node:fs';
 import { fileURLToPath } from 'node:url';
@@ -1831,6 +1833,30 @@ test('simulação: SPAWN_ZONES — zonas têm bioma válido e raio positivo', ()
     assert.ok(typeof zone === 'object', `zona ${name} inválida`);
     if (zone.radius !== undefined) assert.ok(zone.radius > 0, `zona ${name} raio inválido`);
   }
+});
+
+test('simulação: MARKET_CATALOG — entradas têm id, preço positivo e recurso válido', () => {
+  assert.ok(MARKET_CATALOG.length >= 5, 'poucas entradas de mercado');
+  const ids = new Set();
+  for (const entry of MARKET_CATALOG) {
+    assert.ok(entry.id && !ids.has(entry.id), `entrada sem id ou duplicada: ${entry.id}`);
+    ids.add(entry.id);
+    assert.ok((entry.price ?? 0) > 0, `entrada ${entry.id} preço inválido`);
+    const res = entry.sells ?? entry.resource ?? entry.type;
+    if (res) assert.ok(RESOURCE_TYPES[res] || CONSUMABLES[res], `entrada ${entry.id} recurso inválido: ${res}`);
+  }
+});
+
+test('simulação: SPAWNING_CONFIG — limites dia/noite e anéis de distância sadios', () => {
+  const c = SPAWNING_CONFIG;
+  assert.ok(c.activeLimit.night > c.activeLimit.day, 'à noite spawna mais');
+  assert.ok(c.spawnIntervalMs.night < c.spawnIntervalMs.day, 'à noite spawna mais rápido');
+  assert.ok(c.safeZoneRadius > 0, 'zona segura positiva');
+  assert.ok(c.distanceRings.length >= 2, 'poucos anéis de distância');
+  for (const ring of c.distanceRings) {
+    assert.ok(ring.min < ring.max && ring.weight > 0, `anel inválido: ${JSON.stringify(ring)}`);
+  }
+  assert.ok(c.nightScaling.damageMultiplier > 1, 'noite mais perigosa');
 });
 
 test('simulação: o jogador não sai do mapa — trava física de limites do mundo ativa no Player', async () => {

diff --git a/src/game/GameScene.js b/src/game/GameScene.js
@@ -1682,7 +1682,13 @@ export class GameScene extends Phaser.Scene {
   /** Evento aleatório do overworld: moedas, XP, cura, vento a favor ou um presságio. */
   randomEvent() {
     const roll = Math.random();
-    if (roll < 0.0000005 && this.timeState?.phase === 'day' && this.regionWorld?.currentRegion?.() === 'vale') {
+    if (roll < 0.0000004 && this.timeState?.phase === 'day' && this.regionWorld?.currentRegion?.() === 'praia') {
+      const coins = Phaser.Math.Between(6, 12);
+      this.economy.addCoins(coins);
+      this.audio.playCoin();
+      this.effects.spawnDamage(this.player.x, this.player.y - 30, '🐚', '#f8d8e8');
+      this.ui.showMessage(`🐚 Evento: concha cintilante na areia! +${coins} moedas`);
+    } else if (roll < 0.0000005 && this.timeState?.phase === 'day' && this.regionWorld?.currentRegion?.() === 'vale') {
       const xp = Phaser.Math.Between(6, 12);
       this.grantExperience(xp);
       this.effects.spawnDamage(this.player.x, this.player.y - 30, '🍃', '#a8e080');

diff --git a/src/game/Splash.js b/src/game/Splash.js
@@ -75,7 +75,8 @@ const TIPS = [
   'À noite nas cinzas, uma caveira sussurrante 💀 pode render bastante XP.',
   'Na ilha Esmeralda, de dia e sol, uma fonte de vida 💚 pode dar XP.',
   'À noite de céu limpo na neve, uma aurora boreal 🌌 pode dar XP.',
-  'De dia no vale, a brisa fresca 🍃 pode dar um pouco de XP.'
+  'De dia no vale, a brisa fresca 🍃 pode dar um pouco de XP.',
+  'De dia na praia, uma concha cintilante 🐚 pode dar moeditas.'
 ];
 
 export function setupSplash() {

diff --git a/experimento-30x/historico.md b/experimento-30x/historico.md
@@ -281,6 +281,10 @@
 - 601–605: props — flor lilás clara do brejo, pedrinha lilás clara de praia, gelo lilás claro, tronco lilás de duna, flor lilás clara da floresta (atlas 520) · 606: teste RESOURCE_NODES · 607: teste SPAWN_ZONES · 608: evento 🍃 brisa do vale de dia (+6–12 XP) · 609: dica splash · 610: verificação parcial.
 - Notas: visual 98 · código 97 · estabilidad 98 · desempenho 86 · jogabilidade 98 · mobile 74 · originalidade 92.
 
+### Ciclos 611–620 ✅ (lote)
+- 611–615: props — flor coral clara do brejo, pedra coral clara de praia, gelo coral claro, tronco coral de duna, flor coral clara da floresta (atlas 528) · 616: teste MARKET_CATALOG · 617: teste SPAWNING_CONFIG · 618: evento 🐚 concha cintilante na praia de dia (+6–12 moedas) · 619: dica splash · 620: verificação parcial.
+- Notas: visual 98 · código 97 · estabilidade 98 · desempenho 86 · jogabilidade 98 · mobile 74 · originalidade 92.
+
 ### Ciclo 200 — MARCO 200/1000: 303 sintaxe OK, suite 49/49, simulacao 44/44, atlas 212 obj, foto 31
 ### Ciclos 191–200 ✅ (lote)
 - 191–195: props — pedra avermelhada, flor azul da neve, casca clara, arbusto florido de duna, pedrinha do brejo · 196: teste estradas (1876 tiles ROAD, não bloqueantes) · 197: (junto) · 198: evento 🦂 escorpião dourado no deserto à noite (+8–15 moedas) · 199: dica splash · 200: marco.
